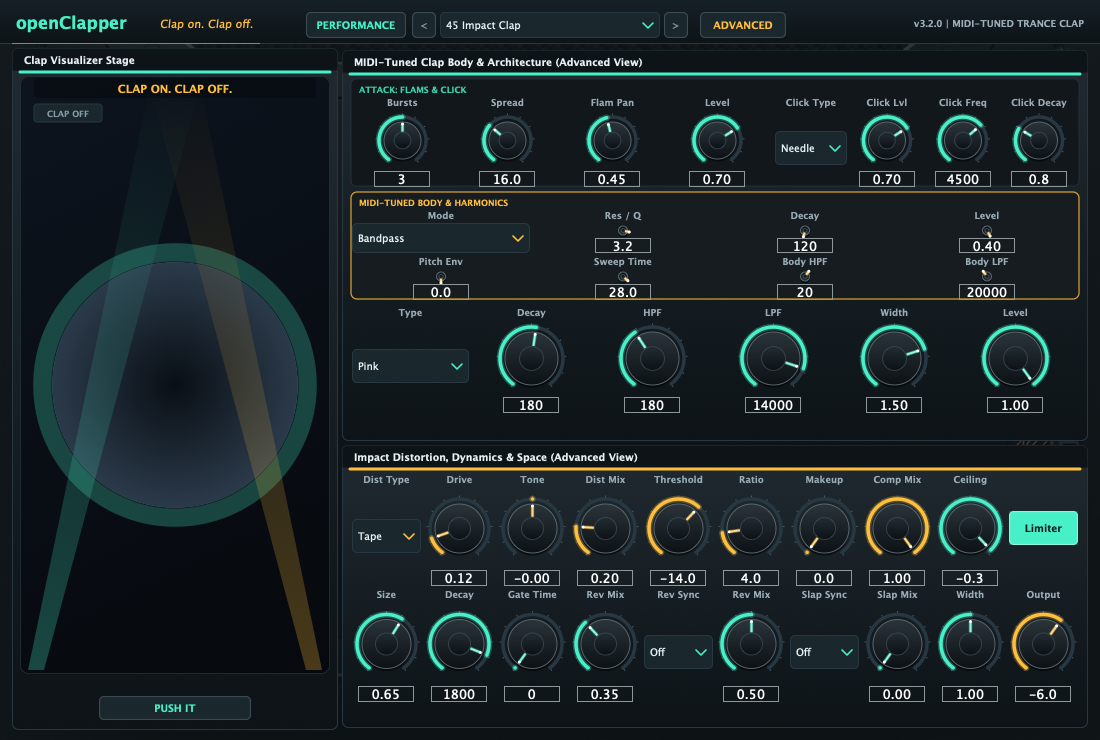
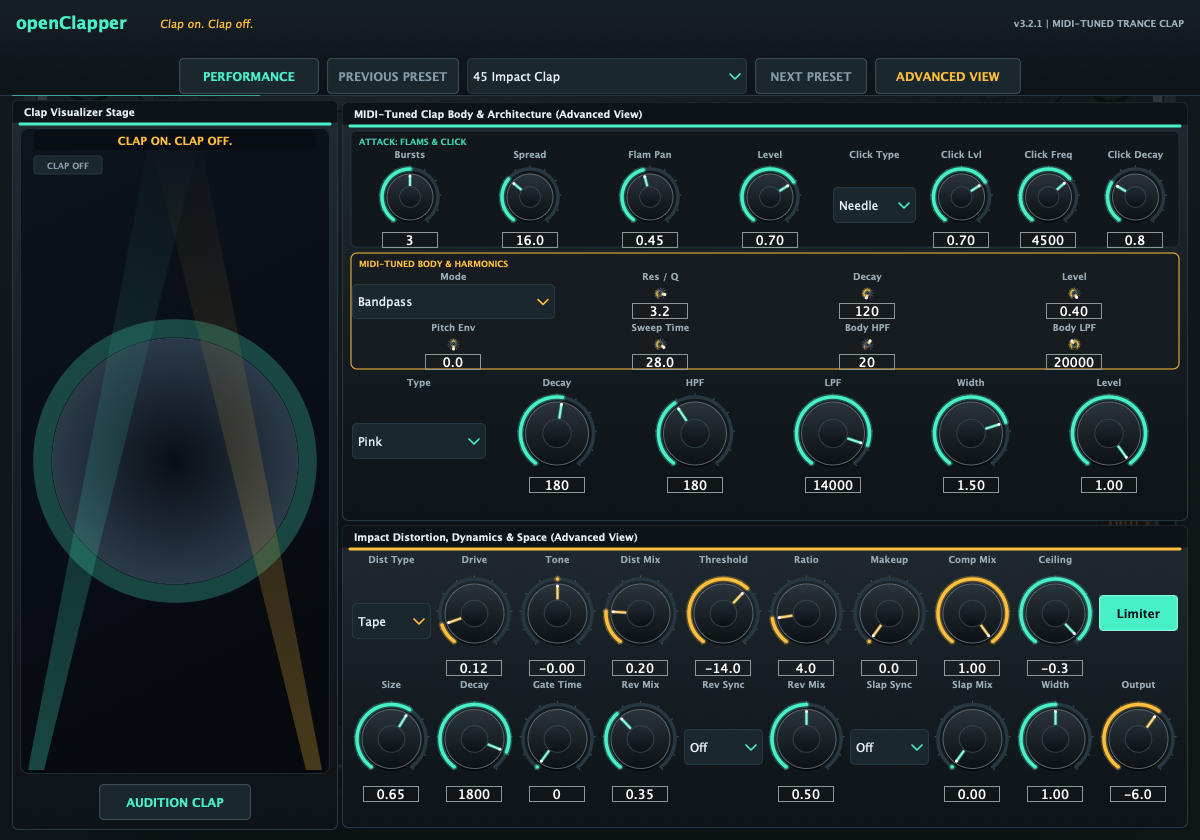
Refresh editor button sizing and labels

diff --git a/Source/Plugin/PluginEditor.cpp b/Source/Plugin/PluginEditor.cpp
@@ -47,7 +47,7 @@ OpenClapperEditor::OpenClapperEditor(OpenClapperProcessor& processorToEdit)
     addAndMakeVisible(nextPresetBtn_);
 
     // Mode toggle button (Simple vs Advanced)
-    viewToggleBtn_.setButtonText(synthPanel_.isAdvancedMode() ? "ADVANCED" : "SIMPLE");
+    viewToggleBtn_.setButtonText(synthPanel_.isAdvancedMode() ? "ADVANCED VIEW" : "SIMPLE VIEW");
     viewToggleBtn_.setColour(juce::TextButton::buttonColourId, openclapper::theme::kKnobBody);
     viewToggleBtn_.setColour(juce::TextButton::textColourOffId, openclapper::theme::kAccentCyan);
     viewToggleBtn_.setTooltip("Toggle between clean Simple mode and deep Advanced tweak controls.");
@@ -55,7 +55,7 @@ OpenClapperEditor::OpenClapperEditor(OpenClapperProcessor& processorToEdit)
         const bool nextAdv = !synthPanel_.isAdvancedMode();
         synthPanel_.setAdvancedMode(nextAdv);
         effectsPanel_.setAdvancedMode(nextAdv);
-        viewToggleBtn_.setButtonText(nextAdv ? "ADVANCED" : "SIMPLE");
+        viewToggleBtn_.setButtonText(nextAdv ? "ADVANCED VIEW" : "SIMPLE VIEW");
         viewToggleBtn_.setColour(juce::TextButton::textColourOffId,
             nextAdv ? openclapper::theme::kAccentAmber : openclapper::theme::kAccentCyan);
         resized();
@@ -100,6 +100,7 @@ OpenClapperEditor::OpenClapperEditor(OpenClapperProcessor& processorToEdit)
     performanceButton_.setClickingTogglesState(true);
     performanceButton_.onClick = [this] {
         const bool visible = performanceButton_.getToggleState();
+        performanceButton_.setButtonText(visible ? "SOUND DESIGN" : "PERFORMANCE");
         performancePanel_.setVisible(visible);
         stagePanel_.setVisible(!visible);
         synthPanel_.setVisible(!visible);
@@ -108,7 +109,10 @@ OpenClapperEditor::OpenClapperEditor(OpenClapperProcessor& processorToEdit)
         resized();
     };
     addAndMakeVisible(performanceButton_);
-    setSize(1100, 740);
+    prevPresetBtn_.setTooltip("Select the previous factory clap.");
+    nextPresetBtn_.setTooltip("Select the next factory clap.");
+    performanceButton_.setTooltip("Open the MIDI performance controls.");
+    setSize(1200, 840);
     setResizable(false, false);
     startTimerHz(20);
 }
@@ -141,7 +145,7 @@ void OpenClapperEditor::paint(juce::Graphics& g) {
     }
 
     // 3. Solid top header bar with border and cyan accent strip
-    const auto headerArea = getLocalBounds().removeFromTop(44);
+    const auto headerArea = getLocalBounds().removeFromTop(96);
     g.setGradientFill(juce::ColourGradient(
         openclapper::theme::kPanel, 0.0f, 0.0f,
         openclapper::theme::kBackground, 0.0f, static_cast<float>(headerArea.getHeight()), false));
@@ -171,15 +175,22 @@ void OpenClapperEditor::resized() {
     auto area = getLocalBounds().reduced(10, 8);
 
     // Top Header
-    auto header = area.removeFromTop(38);
-    const int presetW = 220;
-    auto presetArea = header.withX(header.getCentreX() - presetW / 2).withWidth(presetW);
-    prevPresetBtn_.setBounds(presetArea.getX() - 28, presetArea.getY() + 4, 24, 26);
-    presetBox_.setBounds(presetArea.withHeight(26).translated(0, 4));
-    nextPresetBtn_.setBounds(presetArea.getRight() + 4, presetArea.getY() + 4, 24, 26);
-    viewToggleBtn_.setBounds(nextPresetBtn_.getRight() + 12, presetArea.getY() + 4, 86, 26);
-
-    performanceButton_.setBounds(prevPresetBtn_.getX() - 106, presetArea.getY() + 4, 100, 26);
+    auto header = area.removeFromTop(90);
+    constexpr int buttonHeight = 36;
+    constexpr int gap = 8;
+    constexpr int performanceWidth = 140;
+    constexpr int previousWidth = 132;
+    constexpr int presetWidth = 280;
+    constexpr int nextWidth = 112;
+    constexpr int viewWidth = 146;
+    const int rowWidth = performanceWidth + previousWidth + presetWidth + nextWidth + viewWidth + gap * 4;
+    int x = header.getX() + (header.getWidth() - rowWidth) / 2;
+    const int y = header.getBottom() - buttonHeight - 4;
+    performanceButton_.setBounds(x, y, performanceWidth, buttonHeight); x += performanceWidth + gap;
+    prevPresetBtn_.setBounds(x, y, previousWidth, buttonHeight); x += previousWidth + gap;
+    presetBox_.setBounds(x, y, presetWidth, buttonHeight); x += presetWidth + gap;
+    nextPresetBtn_.setBounds(x, y, nextWidth, buttonHeight); x += nextWidth + gap;
+    viewToggleBtn_.setBounds(x, y, viewWidth, buttonHeight);
     performancePanel_.setBounds(area);
     const int cellWidth = area.getWidth() / 6;
     const int cellHeight = area.getHeight() / 4;

diff --git a/Tests/PluginTests.cpp b/Tests/PluginTests.cpp
@@ -27,6 +27,17 @@ juce::File findRepositoryRoot() {
     }
     return juce::File::getCurrentWorkingDirectory();
 }
+
+void checkButtonHitAreas(juce::Component& component) {
+    for (auto* child : component.getChildren()) {
+        if (auto* button = dynamic_cast<juce::TextButton*>(child)) {
+            INFO(button->getButtonText());
+            CHECK(button->getHeight() >= 36);
+            CHECK(button->getLookAndFeel().getTextButtonFont(*button, button->getHeight()).getHeight() >= 14.0f);
+        }
+        checkButtonHitAreas(*child);
+    }
+}
 }
 
 TEST_CASE("OpenClapperProcessor instantiates with valid parameters", "[plugin]") {
@@ -186,8 +197,9 @@ TEST_CASE("OpenClapperEditor instantiates with correct dimensions", "[plugin][gu
 
     std::unique_ptr<juce::AudioProcessorEditor> editor(processor.createEditor());
     REQUIRE(editor != nullptr);
-    REQUIRE(editor->getWidth() == 1100);
-    REQUIRE(editor->getHeight() == 740);
+    CHECK(editor->getWidth() == 1200);
+    CHECK(editor->getHeight() == 840);
+    checkButtonHitAreas(*editor);
 
     juce::TextButton* performanceButton = nullptr;
     for (auto* child : editor->getChildren()) {
@@ -206,12 +218,12 @@ TEST_CASE("OpenClapperEditor instantiates with correct dimensions", "[plugin][gu
     REQUIRE(processor.parameters.getRawParameterValue("amp_release")->load() == Catch::Approx(20000.0f));
     juce::Image snapshot = editor->createComponentSnapshot(editor->getLocalBounds());
     REQUIRE(snapshot.isValid());
-    REQUIRE(snapshot.getWidth() == 1100);
-    REQUIRE(snapshot.getHeight() == 740);
+    CHECK(snapshot.getWidth() == 1200);
+    CHECK(snapshot.getHeight() == 840);
     juce::TextButton* viewButton = nullptr;
     for (auto* child : editor->getChildren()) {
         auto* button = dynamic_cast<juce::TextButton*>(child);
-        if (button != nullptr && button->getButtonText() == "SIMPLE") viewButton = button;
+        if (button != nullptr && button->getButtonText() == "SIMPLE VIEW") viewButton = button;
     }
     REQUIRE(viewButton != nullptr);
     viewButton->onClick();

diff --git a/Source/Plugin/Panels.cpp b/Source/Plugin/Panels.cpp
@@ -23,6 +23,7 @@ ClappyStagePanel::ClappyStagePanel(OpenClapperProcessor& processor)
     : processor_(processor) {
     auditionBtn_.setColour(juce::TextButton::buttonColourId, theme::kKnobBody);
     auditionBtn_.setColour(juce::TextButton::textColourOffId, theme::kAccentNeonGreen);
+    auditionBtn_.setTooltip("Play a short preview using the selected clap preset.");
     auditionBtn_.onClick = [this]() {
         processor_.triggerAudition();
     };
@@ -47,7 +48,7 @@ void ClappyStagePanel::timerCallback() {
 
 void ClappyStagePanel::resized() {
     auto area = getLocalBounds().reduced(12, 10);
-    auditionBtn_.setBounds(area.removeFromBottom(24).reduced(area.getWidth() / 4, 0));
+    auditionBtn_.setBounds(area.removeFromBottom(36).reduced(area.getWidth() / 4, 0));
 }
 
 void ClappyStagePanel::paint(juce::Graphics& g) {

diff --git a/Source/Plugin/Controls.cpp b/Source/Plugin/Controls.cpp
@@ -63,7 +63,7 @@ void Choice::bind(Apvts& state, const juce::String& parameterId) {
 void Choice::resized() {
     auto area = getLocalBounds();
     title_.setBounds(area.removeFromTop(16));
-    const int height = juce::jmin(34, area.getHeight());
+    const int height = juce::jmin(36, area.getHeight());
     box_.setBounds(area.withHeight(height).withY(area.getCentreY() - height / 2).reduced(2, 0));
 }
 
@@ -82,7 +82,7 @@ Toggle::Toggle(Apvts& state, const juce::String& parameterId, const juce::String
 
 void Toggle::resized() {
     const auto area = getLocalBounds();
-    const int height = juce::jmin(34, area.getHeight());
+    const int height = juce::jmin(36, area.getHeight());
     button_.setBounds(area.withHeight(height).withY(area.getCentreY() - height / 2).reduced(2, 0));
 }
 

diff --git a/Source/Plugin/PluginEditor.h b/Source/Plugin/PluginEditor.h
@@ -22,8 +22,8 @@ private:
     juce::Image faceplate_;
 
     juce::ComboBox presetBox_;
-    juce::TextButton prevPresetBtn_{ "<" };
-    juce::TextButton nextPresetBtn_{ ">" };
+    juce::TextButton prevPresetBtn_{ "PREVIOUS PRESET" };
+    juce::TextButton nextPresetBtn_{ "NEXT PRESET" };
     juce::TextButton viewToggleBtn_{ "SIMPLE" };
 
     openclapper::ui::ClappyStagePanel stagePanel_;

diff --git a/Source/Plugin/Panels.h b/Source/Plugin/Panels.h
@@ -20,7 +20,7 @@ private:
     void timerCallback() override;
 
     OpenClapperProcessor& processor_;
-    juce::TextButton auditionBtn_{ "PUSH IT" };
+    juce::TextButton auditionBtn_{ "AUDITION CLAP" };
     uint32_t seenTriggers_ = 0;
     double clapTriggerTimeMs_ = 0.0;
     float clapPose_ = 0.0f; // -1 (open flam) .. 0 (slap) .. +1 (recoil)

diff --git a/Source/Plugin/EdmLookAndFeel.cpp b/Source/Plugin/EdmLookAndFeel.cpp
@@ -7,7 +7,7 @@ namespace {
 
 constexpr float kArcThickness = 3.5f;
 constexpr float kCornerRadius = 4.5f;
-constexpr float kControlFontSize = 12.0f;
+constexpr float kControlFontSize = 14.0f;
 
 } // namespace
 

diff --git a/README.md b/README.md
@@ -1,4 +1,4 @@
-# openClapper v3
+# openClapper v3.2.1
 
 [Install with OpenVST Manager](https://github.com/alanmarcero/alan-m-OpenVSTManager/releases/latest)
 
@@ -12,11 +12,11 @@ The synthesis engine builds each hit from a tuned resonant body, layered noise, 
 
 The editor screenshots show the Impact Clap preset in the sound controls and performance pages.
 
-![openClapper Impact Clap sound controls](assets/openClapper-screenshot.png)
+![openClapper Impact Clap sound controls with larger labeled buttons](assets/openClapper-screenshot.png)
 
-![openClapper Impact Clap advanced sound controls](assets/openClapper-screenshot-advanced.png)
+![openClapper Impact Clap advanced sound controls with larger labeled buttons](assets/openClapper-screenshot-advanced.png)
 
-![openClapper Impact Clap performance controls](assets/openClapper-performance.png)
+![openClapper Impact Clap performance controls with larger labeled buttons](assets/openClapper-performance.png)
 
 ## MIDI tuning
 
